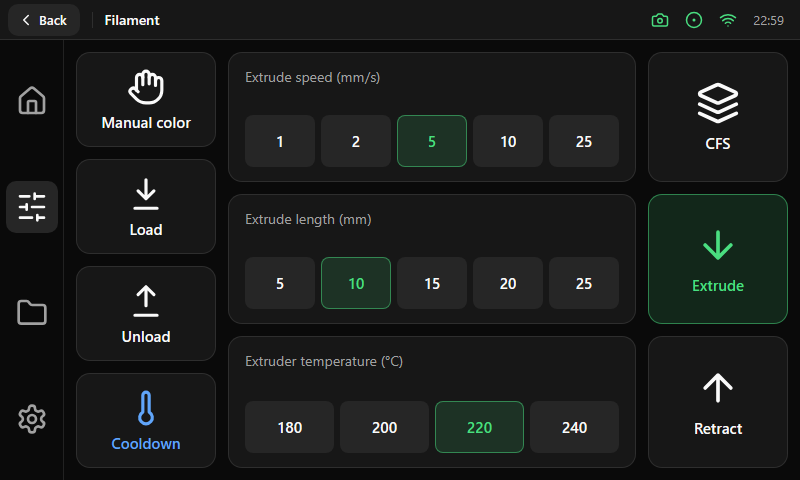
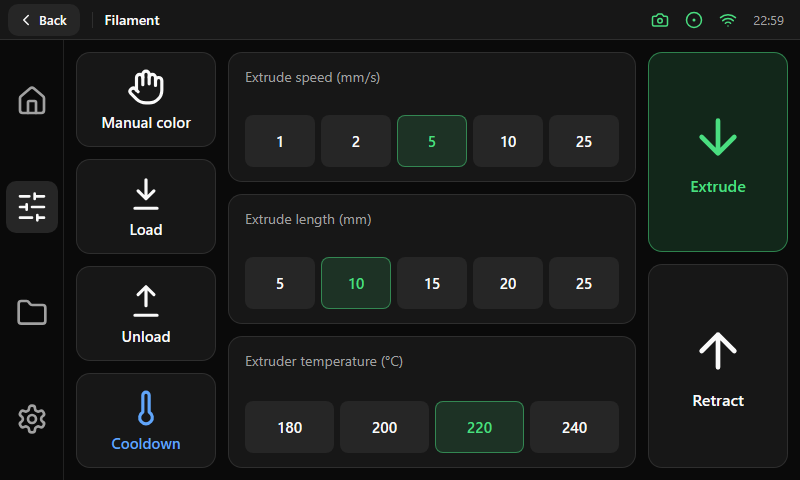
Add seven screen references (fans, input shaper, limits, belts, console, Wi-Fi, system) and update Filament

diff --git a/tools/render_reference.py b/tools/render_reference.py
@@ -37,6 +37,11 @@ L = {
     'snow': '<path d="M2 12h20M12 2v20m-7-5 14-10M5 7l14 10"/>', 'download': '<path d="M12 15V3M7 10l5 5 5-5M5 21h14"/>', 'upload': '<path d="M12 3v12M7 8l5-5 5 5M5 21h14"/>',
     'power-off': '<path d="M18.36 6.64A9 9 0 0 1 20.77 15"/><path d="M6.16 6.16a9 9 0 1 0 12.68 12.68"/><path d="M12 2v4"/><path d="m2 2 20 20"/>',
     'slash': '<path d="m3 3 18 18"/>', 'info': '<circle cx="12" cy="12" r="10"/><path d="M12 16v-4M12 8h.01"/>', 'refresh-cw': '<path d="M3 12a9 9 0 0 1 9-9 9.75 9.75 0 0 1 6.74 2.74L21 8"/><path d="M21 3v5h-5"/>',
+    'save': '<path d="M15.2 3a2 2 0 0 1 1.4.6l3.8 3.8a2 2 0 0 1 .6 1.4V19a2 2 0 0 1-2 2H5a2 2 0 0 1-2-2V5a2 2 0 0 1 2-2z"/><path d="M17 21v-7a1 1 0 0 0-1-1H8a1 1 0 0 0-1 1v7"/><path d="M7 3v4a1 1 0 0 0 1 1h7"/>',
+    'activity': '<path d="M22 12h-2.48a2 2 0 0 0-1.93 1.46l-2.35 8.36a.25.25 0 0 1-.48 0L9.24 2.18a.25.25 0 0 0-.48 0l-2.35 8.36A2 2 0 0 1 4.49 12H2"/>',
+    'lock': '<rect width="18" height="11" x="3" y="11" rx="2" ry="2"/><path d="M7 11V7a5 5 0 0 1 10 0v4"/>',
+    'chev-r': '<path d="m9 18 6-6-6-6"/>',
+    'send': '<path d="M14.536 21.686a.5.5 0 0 0 .937-.024l6.5-19a.496.496 0 0 0-.635-.635l-19 6.5a.5.5 0 0 0-.024.937l7.93 3.18a2 2 0 0 1 1.112 1.11z"/><path d="m21.854 2.147-10.94 10.939"/>',
     'cpu': '<rect width="16" height="16" x="4" y="4" rx="2"/><rect width="6" height="6" x="9" y="9" rx="1"/><path d="M15 2v2M15 20v2M2 15h2M2 9h2M20 15h2M20 9h2M9 2v2M9 20v2"/>',
 }
 
@@ -220,9 +225,9 @@ def screens():
     # filament
     left_rail = ''.join(pos(X0, Y0 + i * 107, 140, 95, f'<div class="col" style="align-items:center;justify-content:center;height:100%;gap:6px;{"color:#60a5fa;" if i == 3 else ""}">{ic(ico, 38)}<span style="font-size:15px;font-weight:500">{t}</span></div>')
                         for i, (t, ico) in enumerate((('Manual color', 'hand'), ('Load', 'download'), ('Unload', 'upload'), ('Cooldown', 'thermo'))))
-    right_rail = ''.join(pos(X1 - 140, Y0 + i * 142, 140, 130 if i < 2 else 132, f'<div class="col" style="align-items:center;justify-content:center;height:100%;gap:8px">{ic(ico, 44)}<span style="font-size:15px;font-weight:500">{t}</span></div>',
-                             cls='card' if i != 1 else 'card soft')
-                         for i, (t, ico) in enumerate((('CFS', 'layers'), ('Extrude', 'arrow-down'), ('Retract', 'arrow-up'))))
+    right_rail = ''.join(pos(X1 - 140, Y0 + y, 140, h, f'<div class="col" style="align-items:center;justify-content:center;height:100%;gap:10px">{ic(ico, 56)}<span style="font-size:16px;font-weight:500">{t}</span></div>',
+                             cls='card soft' if t == 'Extrude' else 'card')
+                         for t, ico, y, h in (('Extrude', 'arrow-down', 0, 200), ('Retract', 'arrow-up', 212, 204)))
     cards = ''.join(pos(X0 + 152, Y0 + [0, 142, 284][i], 408, [130, 130, 132][i], f'<div class="col" style="padding:14px 16px;height:100%;justify-content:space-between"><span class="muted" style="font-size:14px">{t}</span>{seg(o, a, h=52, fs=15, gap=6)}</div>')
                     for i, (t, o, a) in enumerate((('Extrude speed (mm/s)', [1, 2, 5, 10, 25], 5), ('Extrude length (mm)', [5, 10, 15, 20, 25], 10), ('Extruder temperature (°C)', [180, 200, 220, 240], 220))))
     render(path, 'filament', frame('Filament', 1, left_rail + cards + right_rail, back=True))
@@ -241,6 +246,123 @@ def screens():
     ps_b = f'<div class="abs row" style="left:{X0}px;top:{Y0 + 308}px;width:{CW}px;gap:12px">{btn("Tune", "sliders", "sec", h=56, w=230)}{btn("Objects", "layers", "out", h=56, w=230)}{btn("Stop", "square", "destr", h=56, w=230)}</div>'
     render(path, 'print-status', frame('Print status', 0, ps_left + ps_t + ps_m + ps_b, back=True))
 
+# ------------------------------------------------------------------ tool screens (overlay coordinates: x 12..724, y 12..428)
+def ov(x, y, w, h, inner, cls='card', style=''):
+    return pos(SIDE + x, HEAD + y, w, h, inner, cls, style)
+
+def graph(w, h, hint=None):
+    if hint:
+        body = f'<div class="abs muted" style="inset:0;display:flex;align-items:center;justify-content:center;font-size:12px">{hint}</div>'
+    else:
+        body = (f'<svg class="abs" style="inset:0" width="{w}" height="{h}" viewBox="0 0 {w} {h}" fill="none">'
+                f'<path d="M0 {h - 30} C {w * .15} {h - 34}, {w * .22} {h - 70}, {w * .3} {h - 100} S {w * .42} 20, {w * .5} 34 S {w * .62} {h - 80}, {w * .75} {h - 52} S {w * .9} {h - 36}, {w} {h - 32}" stroke="#4ade80" stroke-width="2"/>'
+                f'<path d="M0 {h - 24} C {w * .2} {h - 28}, {w * .3} {h - 60}, {w * .4} {h - 90} S {w * .5} 50, {w * .58} 60 S {w * .7} {h - 70}, {w * .82} {h - 44} S {w * .95} {h - 30}, {w} {h - 28}" stroke="#60a5fa" stroke-width="2"/></svg>')
+    return f'<div class="abs" style="left:0;top:0;width:{w}px;height:{h}px;border-radius:10px;background:var(--bg);overflow:hidden">{body}</div>'
+
+def slider_row(x, y, w, pct):
+    return (f'<div class="abs" style="left:{x}px;top:{y}px;width:{w}px;height:14px;border-radius:7px;background:var(--sec)"><div style="width:{pct}%;height:100%;border-radius:7px;background:var(--ok)"></div>'
+            f'<div class="abs" style="left:{pct}%;top:-3px;width:20px;height:20px;margin-left:-10px;border-radius:50%;background:#fafafa"></div></div>')
+
+def select_box(text, w, x, y):
+    return (f'<div class="abs btn out nw" style="left:{x}px;top:{y}px;width:{w}px;height:40px;font-size:14px;justify-content:space-between;padding:0 12px">{text}{ic("chev-d", 16)}</div>')
+
+def bars(n):
+    items = ''.join(f'<i style="display:block;width:4px;height:{6 + k * 4}px;border-radius:2px;background:{"var(--ok)" if k < n else "var(--sec)"}"></i>' for k in range(4))
+    return f'<span class="row" style="gap:3px;align-items:flex-end;height:18px">{items}</span>'
+
+def tool_screens():
+    path = 'docs/screens/img'
+    # fans
+    def fan(y, name, state, pct):
+        inner = (f'<div class="abs" style="left:20px;top:20px">{tile("fan", 44, 26, "#60a5fa")}</div>'
+                 f'<div class="abs col" style="left:76px;top:18px"><span style="font-size:18px;font-weight:600">{name}</span><span class="muted" style="font-size:12px">{state}</span></div>'
+                 + slider_row(226, 35, 190, pct)
+                 + f'<div class="abs nw" style="right:218px;top:26px;font-size:24px;font-weight:600">{pct}%</div>'
+                 f'<div class="abs" style="left:508px;top:20px">{btn("Off", None, "out", h=44, w=92, fs=16)}</div>'
+                 f'<div class="abs" style="left:608px;top:20px">{btn("Max", None, "soft", h=44, w=92, fs=16)}</div>')
+        return ov(12, y, 712, 84, inner)
+    target = ov(12, 300, 712, 84, '<div class="abs" style="left:20px;top:16px;font-size:18px;font-weight:600">Chamber fan target</div><div class="abs muted" style="left:20px;top:46px;font-size:12px">now 36&deg;</div>'
+                '<div class="abs" style="left:232px;top:26px;font-size:24px;font-weight:600">40&deg;</div>'
+                f'<div class="abs" style="right:16px;top:22px;width:384px;height:40px">{seg([35, 40, 45, 50], 40, h=40, fs=15)}</div>')
+    render(path, 'fans', frame('Fans', 3, fan(12, 'Hotend Fan', 'On', 100) + fan(108, 'Chamber Fan', 'On', 60) + fan(204, 'Rear Fan', 'Off', 0) + target, back=True))
+    # input shaper
+    def axis(x, name, shaper, hz, pct):
+        inner = (f'<div class="abs" style="left:18px;top:18px;font-size:16px;font-weight:600">{name}</div><div class="abs" style="right:18px;top:16px">{switch(True)}</div>'
+                 f'<div class="abs" style="left:14px;top:56px">{graph(322, 150, "Run Calibrate to measure this axis")}</div>'
+                 f'<div class="abs muted" style="left:18px;top:224px;font-size:14px">Shaper</div>{select_box(shaper, 150, 182, 214)}'
+                 f'<div class="abs muted" style="left:18px;top:274px;font-size:14px">Frequency</div><div class="abs" style="right:18px;top:268px;font-size:20px;font-weight:600">{hz} Hz</div>'
+                 + slider_row(18, 302, 314, pct))
+        return ov(x, 12, 350, 326, inner)
+    bottom = ov(12, 350, 712, 78, f'<div class="abs row" style="left:20px;top:12px;gap:12px;font-size:16px;font-weight:500">Graphs {switch(False)}</div>'
+                '<div class="abs muted" style="left:20px;top:44px;font-size:12px;width:190px">Needs an accelerometer. Save restarts Klipper</div>'
+                f'<div class="abs" style="left:230px;top:12px">{btn("Calibrate", "play", "primary", h=54, w=190, fs=16)}</div>'
+                f'<div class="abs" style="left:430px;top:12px">{btn("Save", "save", "out", h=54, w=140, fs=16)}</div>'
+                f'<div class="abs" style="left:580px;top:12px">{btn("Stop", "square", "destr", h=54, w=120, fs=16)}</div>')
+    render(path, 'input-shaper', frame('Input Shaper', 1, axis(12, 'X axis', 'mzv', 54.2, 40) + axis(374, 'Y axis', 'ei', 41.6, 31) + bottom, back=True))
+    # limits
+    def limit(x, y, name, unit, value, pct, mx, default):
+        inner = (f'<div class="abs muted" style="left:20px;top:18px;font-size:14px">{name}</div><div class="abs" style="right:14px;top:12px">{btn("Reset", "refresh", "out", h=32, w=90, fs=13, isz=16)}</div>'
+                 f'<div class="abs row nw" style="left:20px;top:58px;height:52px;gap:8px;align-items:baseline"><span style="font-size:40px;font-weight:600">{value}</span><span class="muted" style="font-size:14px">{unit}</span></div>'
+                 + slider_row(20, 122, 310, pct)
+                 + f'<div class="abs muted" style="left:20px;top:150px;font-size:12px">0</div><div class="abs muted" style="right:20px;top:150px;font-size:12px">{mx}</div>'
+                 f'<div class="abs muted" style="left:20px;bottom:14px;font-size:12px">Default {default}</div>')
+        return ov(x, y, 350, 202, inner)
+    render(path, 'limits', frame('Limits', 1, limit(12, 12, 'Velocity', 'mm/s', 300, 60, 500, 300) + limit(374, 12, 'Acceleration', 'mm/s2', 5000, 50, 10000, 5000)
+           + limit(12, 226, 'Square corner velocity', 'mm/s', 5, 25, 20, 5) + limit(374, 226, 'Acceleration to deceleration', 'mm/s2', 2500, 25, 10000, 2500), back=True))
+    # belts
+    gcard = ov(12, 12, 452, 416, '<div class="abs" style="left:20px;top:16px;font-size:16px;font-weight:600">Belt resonance</div><div class="abs muted" style="left:20px;top:42px;font-size:12px">Compares the two belts of the CoreXY</div>'
+               f'<div class="abs" style="left:30px;top:90px">{graph(404, 250)}</div>'
+               '<div class="abs muted" style="left:20px;bottom:14px;font-size:12px">Run Shake Belts to refresh the graph. Tap the graph to enlarge it.</div>')
+    excite = ov(476, 12, 248, 238, '<div class="abs" style="left:20px;top:16px;font-size:16px;font-weight:600">Excite</div><div class="abs muted" style="left:20px;top:56px;font-size:12px">Frequency</div>'
+                '<div class="abs" style="right:20px;top:48px;font-size:20px;font-weight:600">1 hz</div>' + slider_row(20, 92, 208, 10)
+                + '<div class="abs muted" style="left:20px;top:142px;font-size:12px">Axis</div>' + select_box('X', 208, 20, 166))
+    brow = (f'<div class="abs" style="left:{SIDE + 476}px;top:{HEAD + 262}px">{btn("Shake Belts", "play", "primary", h=52, w=248, fs=16)}</div>'
+            f'<div class="abs" style="left:{SIDE + 476}px;top:{HEAD + 322}px">{btn("Excite", "activity", "out", h=48, w=248, fs=16)}</div>'
+            f'<div class="abs" style="left:{SIDE + 476}px;top:{HEAD + 378}px">{btn("Stop", "square", "destr", h=50, w=248, fs=16)}</div>')
+    render(path, 'belts', frame('Belts / Shake', 1, gcard + excite + brow, back=True))
+    # console
+    log = ''.join(f'<div class="nw" style="font:13px Consolas,monospace;color:{c}">{t}</div>' for t, c in (
+        ('M105', '#fafafa'), ('ok T:220.0 /220.0 B:60.0 /60.0', '#4ade80'), ('G28', '#fafafa'), ('ok', '#4ade80'), ('// Klipper state: Ready', '#a1a1a1'), ('!! Move out of range: 0.000 230.000 0.000', '#ff6467')))
+    chips = ''.join(f'<div class="btn sec nw" style="height:32px;padding:0 12px;font-size:12px;border-radius:999px;font-family:Consolas,monospace">{t}</div>' for t in ('G28', 'M105', 'BED_MESH_CALIBRATE', 'SAVE_CONFIG'))
+    cons = ov(12, 12, 712, 416, f'<div class="abs" style="left:16px;top:16px;width:680px;height:278px;border-radius:10px;background:var(--bg);padding:12px"><div class="col" style="gap:2px;height:100%;justify-content:flex-end">{log}</div>'
+              f'<div class="abs" style="right:10px;top:10px">{btn("Clear", "x", "sec", h=32, w=88, fs=14, isz=16)}</div></div>'
+              f'<div class="abs row" style="left:16px;top:306px;gap:8px">{chips}</div>'
+              f'<div class="abs row" style="left:16px;top:354px;width:680px;gap:12px"><div class="btn out" style="flex:1;height:44px;justify-content:flex-start;padding:0 14px;color:var(--muted);font-size:14px;font-family:Consolas,monospace">Send G-code...</div>{btn("Send", "send", "primary", h=44, w=110, fs=16)}</div>')
+    render(path, 'console', frame('Console', 1, cons, back=True))
+    # wifi
+    def net(ssid, sec, n, on=False):
+        return (f'<div class="row" style="height:58px;padding:0 14px;gap:14px;border-radius:10px;{"background:var(--sec);border:1px solid rgba(74,222,128,.5);" if on else ""}">{bars(n)}'
+                f'<div class="col" style="flex:1"><span style="font-size:15px;font-weight:600">{ssid}</span><span class="muted" style="font-size:12px">{sec}</span></div>{ic("lock", 16, "#a1a1a1") if sec != "Open" else ""}</div>')
+    lst = ov(12, 12, 420, 416, '<div class="abs" style="left:20px;top:24px;font-size:16px;font-weight:600">Networks</div>'
+             f'<div class="abs" style="right:14px;top:14px">{btn("", "refresh", "sec", h=36, w=36, isz=18)}</div>'
+             f'<div class="abs col" style="left:12px;top:60px;width:396px;gap:4px">{net("HomeWiFi-5G", "WPA2", 4, True)}{net("HomeWiFi", "WPA2", 3)}{net("Neighbor", "WPA2", 2)}{net("Guest", "Open", 1)}{net("Workshop", "WPA2", 3)}</div>')
+    stat = ov(444, 12, 280, 224, f'<div class="abs" style="left:20px;top:18px">{tile("wifi", 56, 32, "#4ade80")}</div><div class="abs" style="right:16px;top:18px">{badge("Connected", "var(--ok)", "var(--ok)")}</div>'
+              '<div class="abs nw" style="left:20px;top:90px;font-size:24px;font-weight:600">HomeWiFi-5G</div><div class="abs muted" style="left:20px;top:124px;font-size:14px">192.168.1.42</div>'
+              f'<div class="abs row" style="left:20px;top:156px;gap:10px;font-size:14px">{bars(4)}<span class="muted">Excellent signal</span></div>'
+              '<div class="abs muted" style="left:20px;top:188px;font-size:12px">WPA2 secured</div>')
+    wb = (f'<div class="abs" style="left:{SIDE + 444}px;top:{HEAD + 248}px">{btn("Connect to network", None, "primary", h=56, w=280, fs=16)}</div>'
+          f'<div class="abs" style="left:{SIDE + 444}px;top:{HEAD + 316}px">{btn("Scan networks", "refresh", "out", h=56, w=280, fs=16)}</div>'
+          f'<div class="abs" style="left:{SIDE + 444}px;top:{HEAD + 384}px">{btn("Forget network", None, "destr", h=44, w=280, fs=14)}</div>')
+    render(path, 'wifi', frame('Wi-Fi', 3, lst + stat + wb, back=True))
+    # system
+    prn = ov(12, 12, 350, 110, f'<div class="abs" style="left:14px;top:25px">{model(60)}</div><div class="abs" style="left:124px;top:22px;font-size:20px;font-weight:600">Creality K1C</div>'
+             '<div class="abs muted" style="left:124px;top:52px;font-size:14px">CoreXY</div><div class="abs muted" style="left:124px;top:74px;font-size:14px">220 x 220 x 250 mm</div>')
+    rows = ''.join(f'<div class="abs" style="left:0;right:0;top:{46 + i * 49}px;height:1px;background:rgba(255,255,255,.1)"></div><div class="abs muted" style="left:20px;top:{60 + i * 49}px;font-size:16px">{n}</div>'
+                   f'<div class="abs nw" style="right:20px;top:{60 + i * 49}px;font-size:16px;font-weight:500">{v}</div>'
+                   for i, (n, v) in enumerate((('PowerScreen', '0.37.9'), ('CFS Power Script', '1.1.8'), ('Klipper', 'v0.12.0'), ('Moonraker', 'v0.9.3'), ('K1C Firmware', '2.3.5.34'))))
+    inf = ov(12, 134, 350, 294, '<div class="abs" style="left:20px;top:14px;font-size:16px;font-weight:600">System</div>' + rows)
+    net_c = ov(374, 12, 350, 110, f'<div class="abs" style="left:18px;top:25px">{tile("wifi", 60, 36, "#4ade80")}</div><div class="abs" style="left:92px;top:22px;font-size:16px;font-weight:600">HomeWiFi-5G</div>'
+               f'<div class="abs muted" style="left:92px;top:50px;font-size:14px">192.168.1.42</div><div class="abs muted" style="left:92px;top:76px;font-size:12px">Tap to open Wi-Fi</div><div class="abs muted" style="right:18px;top:40px">{ic("chev-r", 20)}</div>')
+    prefs = ov(374, 134, 350, 294, '<div class="abs" style="left:20px;top:14px;font-size:16px;font-weight:600">Preferences</div>'
+               + '<div class="abs" style="left:20px;top:62px;font-size:16px">Display Sleep</div>' + select_box('Never', 130, 204, 52)
+               + '<div class="abs" style="left:20px;top:112px;font-size:16px">Brightness</div><div class="abs muted" style="right:20px;top:114px;font-size:14px">100%</div>' + slider_row(20, 150, 310, 100)
+               + '<div class="abs" style="left:0;right:0;top:182px;height:1px;background:rgba(255,255,255,.1)"></div>'
+               + f'<div class="abs" style="left:20px;top:198px;font-size:16px">Prompt Emergency Stop</div><div class="abs" style="right:16px;top:195px">{switch(True)}</div>'
+               + '<div class="abs" style="left:20px;top:250px;font-size:16px">Log Level</div>' + select_box('Info', 130, 204, 240))
+    render(path, 'system', frame('System', 3, prn + inf + net_c + prefs, back=True))
+
+
 if __name__ == '__main__':
     components()
     screens()
+    tool_screens()

diff --git a/docs/screens/system.md b/docs/screens/system.md
@@ -1,0 +1,15 @@
+# System
+
+![System](img/system.png)
+
+Four cards of 350 px in two columns, 12 px apart.
+
+| Card | Size | Content |
+|---|---|---|
+| Printer | 350 × 110 px | Picture of the printer (left), model name in 20 pt, kinematics and build size in 14 pt, muted |
+| Network | 350 × 110 px | Wi-Fi tile (60 px), network name, IP address and the hint "Tap to open Wi-Fi", with a chevron. The whole card is a button that opens the [Wi-Fi screen](wifi.md) |
+| System | 350 × 294 px | Title and five rows of 49 px separated by 1 px hairlines: name in muted 16 pt on the left, value in 16 pt on the right (software and firmware versions) |
+| Preferences | 350 × 294 px | Title, then a [select](../components/badges-tiles-select.md) row (Display Sleep), a brightness slider with its percentage, and rows with a [switch](../components/controls.md) or a select (Prompt Emergency Stop, Log Level). Rows are 52 px high with the control 16 px from the right edge |
+
+A second page, **About** (a tab pair at the top of the screen), holds the version cards for the display software and the helper script with their update buttons
+of 376 × 48 px. A running update opens a [dialog](../components/dialog.md) with its steps.

diff --git a/docs/screens/wifi.md b/docs/screens/wifi.md
@@ -1,0 +1,12 @@
+# Wi-Fi
+
+![Wi-Fi](img/wifi.png)
+
+| Area | Size and content |
+|---|---|
+| Network list | A card of 420 × 416 px: title "Networks" and a 36 px refresh button, then a list of 58 px [rows](../components/list-row.md) with 4 px between them. Each row has signal bars, the network name, its security and a lock when it is secured. The selected row uses the soft green border. With no results the list shows an [empty state](../components/menu-card-and-empty-state.md) |
+| Status card | 280 × 224 px: icon tile (56 px), a [badge](../components/badges-tiles-select.md) with the state (Connected, Saved or Not connected), the network name in 24 pt, the IP address, signal bars with a text ("Excellent signal") and the security |
+| Actions | Under the status card, 280 px wide: Primary **Connect to network** (56 px), Outline **Scan networks** (56 px) and Destructive **Forget network** (44 px) |
+
+For a secured network that is not saved, the status card swaps its details for a password field (48 px) and the on-screen keyboard opens along the bottom.
+The signal bars show four levels; the text beside them reads Excellent, Good, Fair or Weak.

diff --git a/docs/screens/input-shaper.md b/docs/screens/input-shaper.md
@@ -1,0 +1,15 @@
+# Input shaper
+
+![Input shaper](img/input-shaper.png)
+
+| Area | Size and content |
+|---|---|
+| Axis cards | Two cards of 350 × 326 px (X on the left, Y on the right). Each has the axis name and an enable [switch](../components/controls.md), a 322 × 150 px result area, a shaper [select](../components/badges-tiles-select.md) (150 px), the frequency in 20 pt and a slider |
+| Result area | Black background, radius 10. Before a measurement it shows the hint "Run Calibrate to measure this axis"; afterwards the resonance graph or the text output. Tapping it enlarges it |
+| Bottom bar | A 712 × 78 px card: a **Graphs** switch with a one-line note, then Primary **Calibrate** (190 px), Outline **Save** (140 px) and Destructive **Stop** (120 px), all 54 px high |
+
+Rules worth copying:
+
+- **Save** restarts Klipper, so the note says so next to the switch that needs an accelerometer.
+- The slider sets the frequency in tenths of a hertz; the value is shown beside its label, never inside the slider.
+- The screen needs no title of its own; the Back pill and the title are in the top bar.

diff --git a/docs/screens/console.md b/docs/screens/console.md
@@ -1,0 +1,14 @@
+# Console
+
+![Console](img/console.png)
+
+One card of 712 × 416 px with 16 px of padding and 12 px between its rows.
+
+| Row | Size and content |
+|---|---|
+| Log | Fills the free height. Monospace 14 pt on the background color, radius 10, 12 px of padding. Short logs hug the bottom. A floating Secondary **Clear** button (88 × 32 px) sits at the top right |
+| Shortcuts | A horizontal strip of 36 px with pill buttons (command history and the macros that match what is typed). It scrolls sideways without a scrollbar |
+| Input | A text field of 44 px (radius 10, green border when focused, placeholder "Send G-code...") and a Primary **Send** button of 110 × 44 px |
+
+The on-screen keyboard appears over the lower part when the field is focused. Log lines are colored by their start: `//` lines in muted, `!!` lines and any line with "error" in the destructive red, lines that start
+with `ok` in green, and everything else (your own commands included) in the foreground color.

diff --git a/docs/screens/filament.md b/docs/screens/filament.md
@@ -6,6 +6,7 @@
 |---|---|
 | Left rail | 140 px wide: four rail buttons (Manual color, Load, Unload, Cooldown) of 95 px, 12 px gap |
 | Center | Three cards of 408 px, each with a title and a [segmented group](../components/segmented.md) (speed, length, temperature) |
-| Right rail | 140 px wide: CFS, Extrude (soft) and Retract |
+| Right rail | 140 px wide: two large buttons that fill the column, a Soft **Extrude** (200 px high) and an Outline **Retract** (204 px high), with 56 px icons |
 
-The Back pill is in the top bar; the screen has no title of its own.
+The Back pill is in the top bar; the screen has no title of its own. The two big buttons are the actions used most while a spool is changed,
+so they get the most room. Anything that opens another screen (for example a filament-box page) belongs in a menu, not in this rail.

diff --git a/docs/screens/belts.md b/docs/screens/belts.md
@@ -1,0 +1,11 @@
+# Belts / Shake
+
+![Belts](img/belts.png)
+
+| Area | Size and content |
+|---|---|
+| Graph card | 452 × 416 px on the left: title (16 pt), a one-line subtitle, a 404 × 250 px graph area and a footer hint at the bottom. Before the first run the area shows "No graph yet"; tapping the graph enlarges it |
+| Excite card | 248 × 238 px on the right: title, the frequency (20 pt) with a [slider](../components/controls.md), and an axis [select](../components/badges-tiles-select.md) |
+| Actions | Three full-width buttons of 248 px under the card: Primary **Shake Belts** (52 px), Outline **Excite** (48 px) and Destructive **Stop** (50 px) |
+
+The graph compares the resonance of the two belts of a CoreXY, so the two curves share one set of axes and use two different colors from the palette.

diff --git a/docs/screens/fans.md b/docs/screens/fans.md
@@ -1,0 +1,11 @@
+# Fans
+
+![Fans](img/fans.png)
+
+| Area | Size and content |
+|---|---|
+| Fan cards | One card per fan, 712 × 84 px, 12 px gap. Icon tile (44 px), name and state, [slider](../components/controls.md), value in 24 pt, then an Outline **Off** and a Soft **Max** button (92 × 44 px) |
+| Target card | Same 712 × 84 px strip for a `temperature_fan` object (for example the chamber fan): title and current temperature on the left, the target in 24 pt, and a 384 px [segmented group](../components/segmented.md) on the right |
+
+The cards are generated from the fan objects the printer reports, so the list grows or shrinks with the machine. The target card only
+appears when the printer has that object. There is no title inside the screen: the top bar carries it.

diff --git a/docs/screens/limits.md b/docs/screens/limits.md
@@ -1,0 +1,14 @@
+# Limits
+
+![Limits](img/limits.png)
+
+Four cards of 350 × 202 px in a 2 × 2 grid with a 12 px gap: velocity, acceleration, square corner velocity and acceleration to deceleration.
+
+| Part of each card | Size and content |
+|---|---|
+| Title | 14 pt, muted, at the top left |
+| Reset | Outline button of 90 × 32 px at the top right; it restores the value that `printer.cfg` defines |
+| Value | 40 pt number with the unit (14 pt, muted) beside it |
+| Slider | 310 × 14 px, see [controls](../components/controls.md). The new value is sent when the finger is released, not while dragging |
+| Range | Minimum and maximum in 12 pt, muted, under the slider |
+| Default | "Default N" in 12 pt, muted, at the bottom left |

diff --git a/docs/screens/README.md b/docs/screens/README.md
@@ -13,6 +13,13 @@ Every screen uses the same [frame](../foundations/layout.md#frame): a top bar, a
 | Filament | [filament.md](filament.md) |
 | Movement | [movement.md](movement.md) |
 | Print status | [print-status.md](print-status.md) |
+| Fans | [fans.md](fans.md) |
+| Input shaper | [input-shaper.md](input-shaper.md) |
+| Limits | [limits.md](limits.md) |
+| Belts / Shake | [belts.md](belts.md) |
+| Console | [console.md](console.md) |
+| Wi-Fi | [wifi.md](wifi.md) |
+| System | [system.md](system.md) |
 
-More screens (tools such as input shaper, fans, console, Wi-Fi, system) will be added. The images are rendered by
+The images are rendered by
 [`tools/render_reference.py`](../../tools/render_reference.py).
